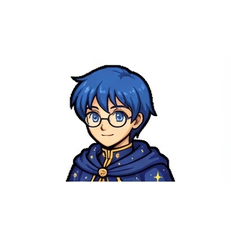
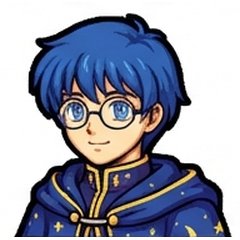
enhance portrait crop script, fix portrait rendering

diff --git a/js/ui.js b/js/ui.js
@@ -33,7 +33,7 @@ const UI = {
     const hasPortrait = unit.charId && Sprites._portraitCache[unit.charId] && Sprites._portraitCache[unit.charId].loaded;
     this.unitInfo.innerHTML = `
       <div style="display:flex;gap:6px;align-items:center;margin-bottom:4px">
-        <canvas id="panel-portrait" width="32" height="32" style="width:40px;height:40px;border:1px solid ${unit.faction==='player'?'#4a9eff':'#f44'};border-radius:4px;image-rendering:pixelated;flex-shrink:0"></canvas>
+        <canvas id="panel-portrait" width="40" height="40" style="width:40px;height:40px;border:1px solid ${unit.faction==='player'?'#4a9eff':'#f44'};border-radius:4px;flex-shrink:0"></canvas>
         <div>
           <div class="stat-name">${unit.name}</div>
           <div class="stat-class">${cls.name} Lv.${unit.level}</div>
@@ -78,11 +78,11 @@ const UI = {
     const pCanvas = document.getElementById('panel-portrait');
     if (pCanvas) {
       const pCtx = pCanvas.getContext('2d');
-      pCtx.clearRect(0, 0, 32, 32);
+      pCtx.clearRect(0, 0, 40, 40);
       if (unit.charId) {
-        Sprites.drawPortrait(pCtx, unit.charId, 32, 32);
+        Sprites.drawPortrait(pCtx, unit.charId, 40, 40);
       } else {
-        Sprites.drawGenericPortrait(pCtx, unit, 32, 32);
+        Sprites.drawGenericPortrait(pCtx, unit, 40, 40);
       }
     }
   },
@@ -448,7 +448,7 @@ const UI = {
   </style>
         <div style="display:flex;gap:24px;margin-bottom:16px;align-items:flex-start">
           <div>
-            <canvas id="status-portrait" width="64" height="64" style="image-rendering:pixelated;width:96px;height:96px;border:2px solid ${borderColor}"></canvas>
+            <canvas id="status-portrait" width="96" height="96" style="width:96px;height:96px;border:2px solid ${borderColor}"></canvas>
           </div>
           <div style="flex:1">
             <div style="font-size:20px;color:${nameColor};font-weight:bold">${unit.name}</div>
@@ -507,9 +507,9 @@ const UI = {
       if (pCanvas) {
         const pCtx = pCanvas.getContext('2d');
         if (unit.charId && Sprites.drawPortrait) {
-          Sprites.drawPortrait(pCtx, unit.charId, 64, 64);
+          Sprites.drawPortrait(pCtx, unit.charId, 96, 96);
         } else if (Sprites.drawGenericPortrait) {
-          Sprites.drawGenericPortrait(pCtx, unit, 64, 64);
+          Sprites.drawGenericPortrait(pCtx, unit, 96, 96);
         }
       }
     }

diff --git a/classes/index.html b/classes/index.html
@@ -15,7 +15,7 @@ h1 { text-align:center; color:#e8d080; font-size:24px; margin-bottom:8px; }
   text-align:center; transition:border-color 0.2s;
 }
 .card:hover { border-color:#e8d080; }
-.card canvas { image-rendering:pixelated; display:block; margin:0 auto 10px; }
+.card canvas { display:block; margin:0 auto 10px; }
 .class-name { color:#e8d080; font-size:16px; font-weight:bold; margin-bottom:4px; }
 .class-id { color:#666; font-size:11px; margin-bottom:6px; }
 .weapons { color:#8ab; font-size:12px; margin-bottom:4px; }
@@ -102,7 +102,6 @@ function renderAll() {
     canvas.height = 40 * scale;
     canvas.style.width = (40 * scale) + 'px';
     canvas.style.height = (40 * scale) + 'px';
-    canvas.style.imageRendering = 'pixelated';
     
     const ctx = canvas.getContext('2d');
     ctx.imageSmoothingEnabled = false;

diff --git a/js/dialogue.js b/js/dialogue.js
@@ -46,8 +46,8 @@ class DialogueSystem {
       this.nameEl.textContent = CHARACTERS[line.speaker].name;
       this.nameEl.style.display = 'block';
       // Draw portrait (redraw when image loads)
-      this.portraitCtx.clearRect(0, 0, 64, 64);
-      Sprites.drawPortrait(this.portraitCtx, line.speaker, 64, 64);
+      this.portraitCtx.clearRect(0, 0, 80, 80);
+      Sprites.drawPortrait(this.portraitCtx, line.speaker, 80, 80);
       this.portraitCanvas.style.display = 'block';
       // Re-draw if portrait image loads after initial draw
       const _speaker = line.speaker;

diff --git a/css/style.css b/css/style.css
@@ -20,7 +20,6 @@ body {
 #gameCanvas {
   display: block;
   background: #000;
-  image-rendering: pixelated;
   width: 800px;
   height: 600px;
 }
@@ -83,7 +82,6 @@ body {
 }
 
 #unit-portrait canvas {
-  image-rendering: pixelated;
   width: 48px;
   height: 48px;
 }
@@ -182,7 +180,6 @@ body {
 #dialogue-box.hidden { display: none; }
 
 #portrait-canvas {
-  image-rendering: pixelated;
   width: 80px;
   height: 80px;
   border: 2px solid #4a9eff;

diff --git a/index.html b/index.html
@@ -25,7 +25,7 @@
     <div id="action-menu" class="hidden"></div>
     <div id="combat-forecast" class="hidden"></div>
     <div id="dialogue-box" class="hidden">
-      <canvas id="portrait-canvas" width="64" height="64"></canvas>
+      <canvas id="portrait-canvas" width="80" height="80"></canvas>
       <div id="dialogue-name"></div>
       <div id="dialogue-text"></div>
     </div>

diff --git a/scripts/crop_spritesheet2.py b/scripts/crop_spritesheet2.py
@@ -13,13 +13,13 @@ OUTPUT_DIR = "portraits"
 # 角色 ID 列表 (必須與生成時的順序一致：由上至下，由左至右)
 CHARACTERS = [
     # Row 1
-    "eirine", "marcus", "morgane", "lina", "knight1", "knight2",
+    "eirine", "marcus", "morgane", "lina", "char1", "char2",
     # Row 2
-    "thor", "serra", "cain", "fran", "knight3", "knight4",
+    "thor", "serra", "cain", "fran", "char3", "char4",
     # Row 3
-    "rex", "natasha", "olivier", "helga", "knight5", "knight6",
+    "rex", "natasha", "olivier", "helga", "char5", "char6",
     # Row 4
-    "anna", "lieutenant", "dragon", "king", "a", "b"
+    "anna", "lieutenant", "dragon", "king", "char7", "char8"
 ]
 
 def main():
@@ -53,9 +53,10 @@ def main():
             top = int(row * cell_h)
             right = int((col + 1) * cell_w)
             bottom = int((row + 1) * cell_h)
+            diff = int(cell_w - cell_h) / 2
 
             # 裁剪
-            cell = img.crop((left, top, right, bottom))
+            cell = img.crop((left + diff, top + 2, right - diff, bottom - 2))
             
             # 縮放並居中到目標尺寸
             scaled = Image.new('RGBA', (TARGET_W, TARGET_H), (0, 0, 0, 0))

diff --git a/scripts/crop_spritesheet.py b/scripts/crop_spritesheet.py
@@ -41,7 +41,7 @@ def main():
     print(f"每個單元格尺寸：{cell_w:.1f}x{cell_h:.1f}")
 
     # 目標尺寸 (與現有角色頭像一致)
-    TARGET_W, TARGET_H = 231, 240
+    TARGET_W, TARGET_H = 240, 240
 
     # 逐個切割並保存
     idx = 0
@@ -54,9 +54,10 @@ def main():
             top = int(row * cell_h)
             right = int((col + 1) * cell_w)
             bottom = int((row + 1) * cell_h)
+            diff = int(cell_w - cell_h) / 2
 
             # 裁剪
-            cell = img.crop((left, top, right, bottom))
+            cell = img.crop((left + diff, top + 2, right - diff, bottom - 2))
             
             # 縮放並居中到目標尺寸
             scaled = Image.new('RGBA', (TARGET_W, TARGET_H), (0, 0, 0, 0))
